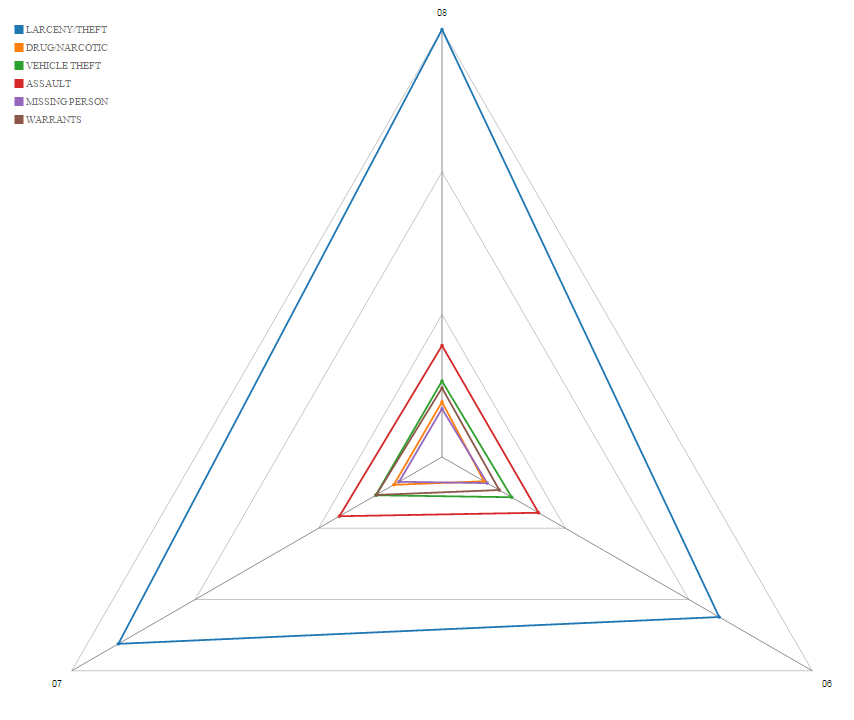
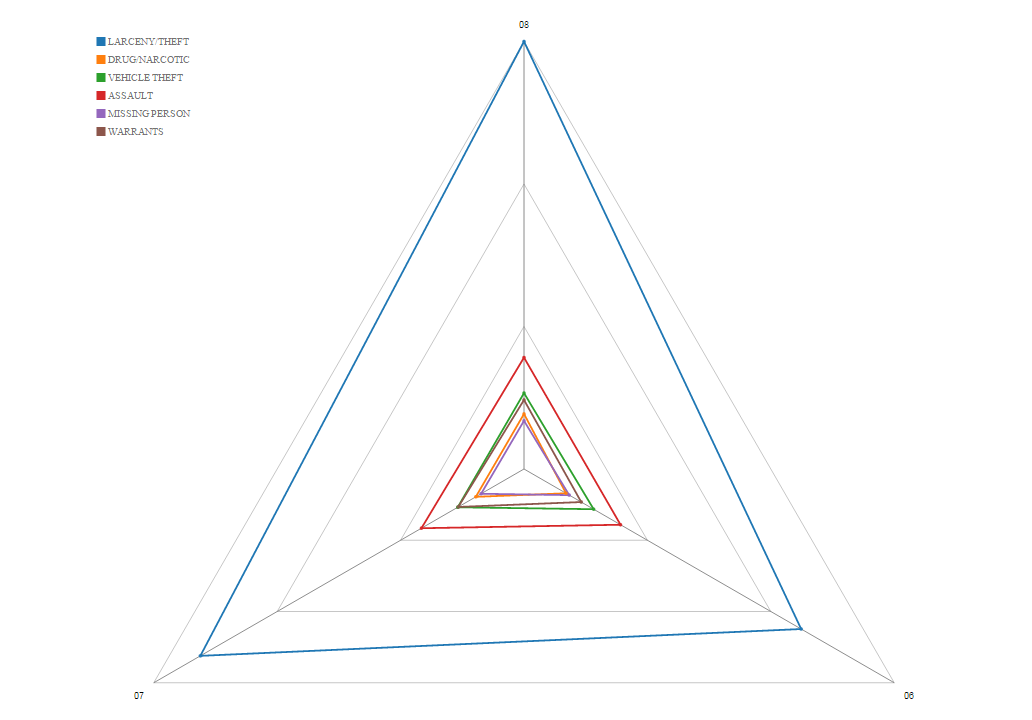
errors are fixed

diff --git a/ch5.html b/ch5.html
@@ -59,9 +59,9 @@
             hIdx = radarData.length;
             var axes = [];
             [
-              '00', '01', '02', '03', '04', '05', '06', '07', '08',
+              '01', '02', '03', '04', '05', '06', '07', '08',
               '09', '10', '11', '12', '13', '14', '15', '16', '17',
-              '18', '19', '20', '21', '22', '23'
+              '18', '19', '20', '21', '22', '23', '24'
             ].reverse().forEach(function(h){
               axes.push({ axis: h, value: 0 });
             });
@@ -70,7 +70,8 @@
           }
 
           // var key1 = d.DayOfWeek;
-          var key1 = d.Hour;
+          var hour = d.Hour == '00' ? '24' : d.Hour;
+          var key1 = hour;
           var aIdx = getIdxByField(radarData[hIdx].axes, 'axis', key1);
           if (aIdx === -1) {
             aIdx = radarData.length;

diff --git a/ch6.html b/ch6.html
@@ -59,9 +59,9 @@
             hIdx = radarData.length;
             var axes = [];
             [
-              '00', '01', '02', '03', '04', '05', '06', '07', '08',
+              '01', '02', '03', '04', '05', '06', '07', '08',
               '09', '10', '11', '12', '13', '14', '15', '16', '17',
-              '18', '19', '20', '21', '22', '23'
+              '18', '19', '20', '21', '22', '23', '24'
             ].reverse().forEach(function(h){
               axes.push({ axis: h, value: 0 });
             });
@@ -70,7 +70,8 @@
           }
 
           // var key1 = d.DayOfWeek;
-          var key1 = d.Hour;
+          var hour = d.Hour == '00' ? '24' : d.Hour;
+          var key1 = hour;
           var aIdx = getIdxByField(radarData[hIdx].axes, 'axis', key1);
           if (aIdx === -1) {
             aIdx = radarData.length;

diff --git a/index1.html b/index1.html
@@ -103,7 +103,7 @@
           <ul>
             <li>There are very few incidents between 3 - 5 AM.</li>
             <li>Most LARCENY/THEFT incidents happens most often on Saturday between 9 and 12 PM</li>
-            <li>Most cars are theft while people are at home at the evening</li>
+            <li>Most cars are thieved while people are at home at the evening</li>
           </ul>
           <p>Sourse code available in <a href="https://github.com/mpashkovskiy/data-results">public GitHub repo</a></p>
           <!-- <h1>SF Incidents frequency analysis.</h1>
